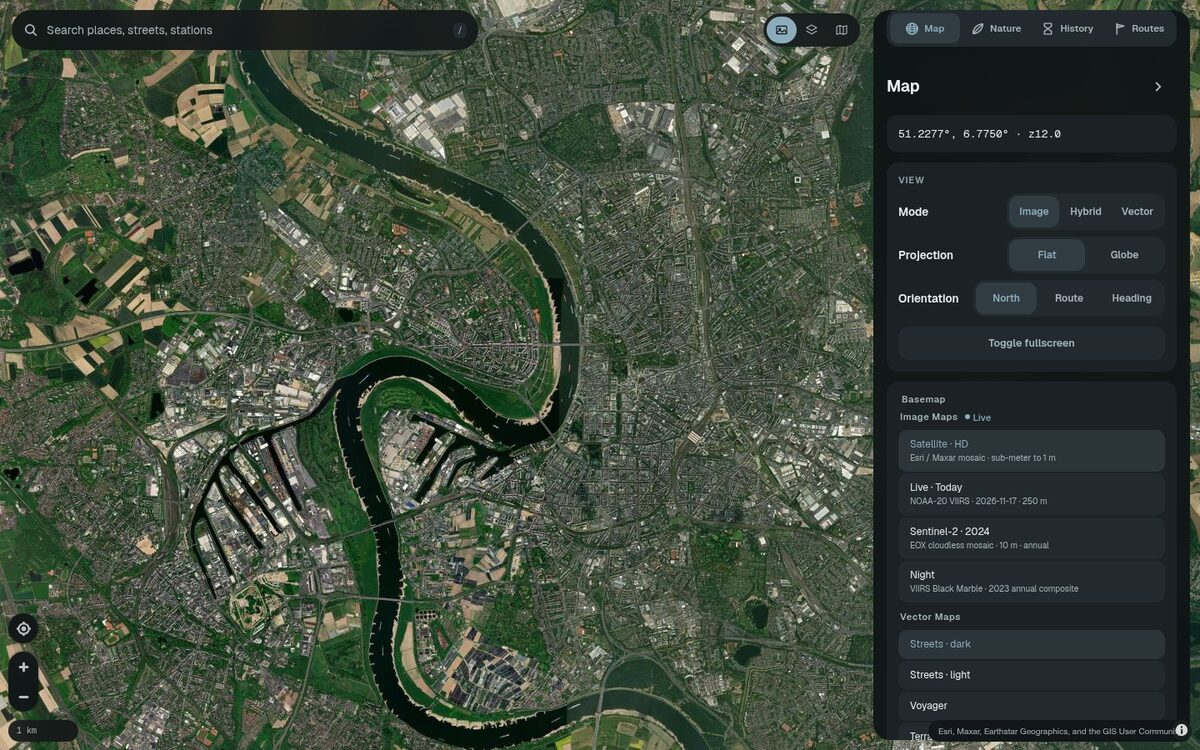
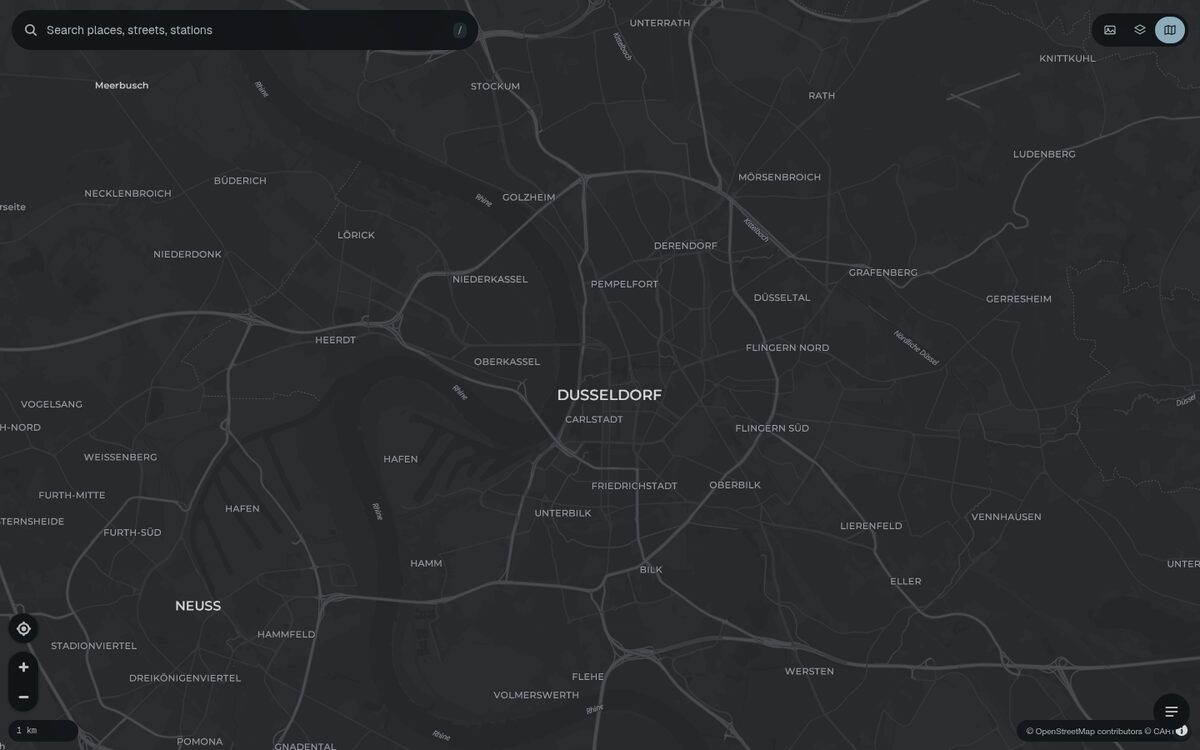
docs(readme): refresh screenshots and status for the live build

diff --git a/README.md b/README.md
@@ -40,7 +40,7 @@ KugelMaps is a client-side navigation and exploration app. It plans train, bus, 
 | Feature | What it does |
 |---|---|
 | **Search** | Places, streets and stations via Photon, with detail cards for OSM places: photos, opening hours, contact, website and Wikipedia/Wikidata. |
-| **Basemaps** | Esri satellite, Sentinel-2 cloudless (2024/2023), NASA Black Marble night lights, EOX Terrain and CARTO Streets dark/light. |
+| **Basemaps** | Esri satellite, Sentinel-2 cloudless (2024/2023), NASA Black Marble night lights, EOX Terrain and CARTO Streets dark/light. The dark vector style is re-tinted to the Graphite palette and is the default. |
 | **Modes** | Image, Hybrid (satellite plus transport) and Vector. |
 | **Projection** | Flat Mercator or a 3D globe. |
 | **Orientation** | North-up, route-up or compass heading. |
@@ -166,11 +166,9 @@ No backend, no analytics. Settings, planner state and credentials live in `local
 
 ## Status
 
-The train planner is the focus. KugelMaps is not yet a drop-in replacement for DB Navigator, the VRR app or Google Maps — coverage and live data depend on the upstream APIs. Next up:
+The train planner is the focus. KugelMaps is not yet a drop-in replacement for DB Navigator, the VRR app or Google Maps — coverage and live data depend on the upstream APIs. The dark vector basemap with the Graphite tint is the default; satellite imagery is one tap away.
 
-- a graphite re-tint for the dark vector basemap;
-- broader live-transit coverage;
-- making the dark vector basemap the default for new users.
+Next up: broader live-transit coverage and more real-time feeds.
 
 ## License
 
